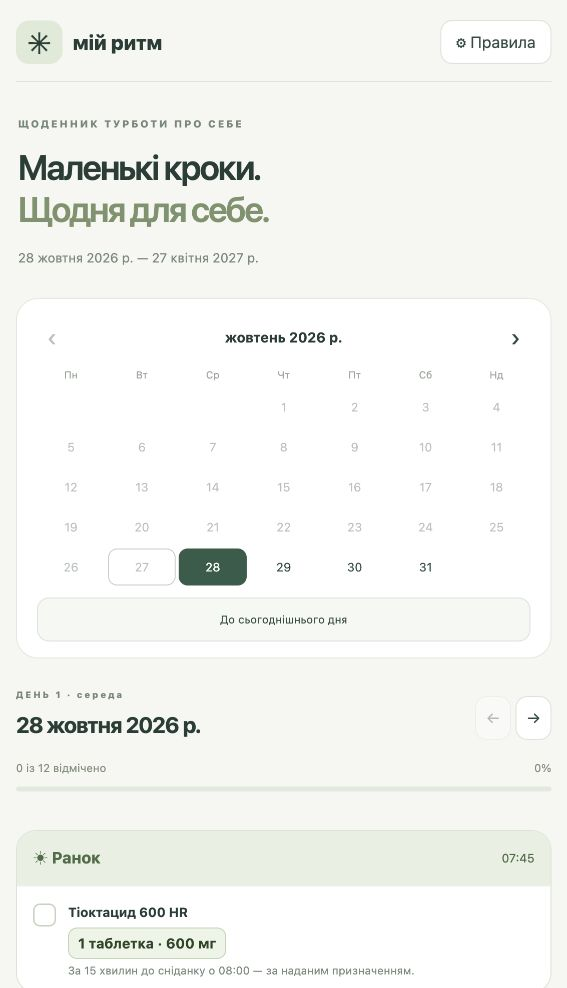
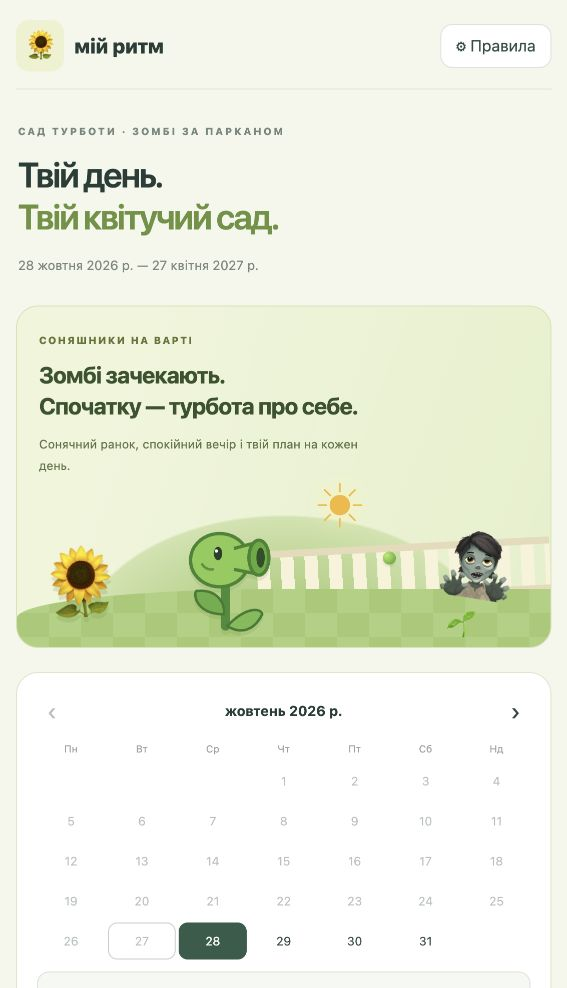
Add Ukrainian garden theme inspired by Plants vs Zombies

diff --git a/src/style.css b/src/style.css
@@ -471,3 +471,173 @@ textarea {
 .row.done .dosage {
   opacity: 0.65;
 }
+
+/* A playful garden theme inspired by Plants vs. Zombies; purely decorative. */
+:root {
+  background: #f5f7ec;
+}
+.logo {
+  background: #edf2cf;
+  padding: 6px 9px;
+}
+.intro {
+  padding-bottom: 20px;
+}
+.intro h1 em {
+  color: #6b923e;
+}
+.garden-banner {
+  position: relative;
+  display: grid;
+  grid-template-columns: 1.3fr 1fr;
+  min-height: 210px;
+  margin-bottom: 34px;
+  overflow: hidden;
+  border: 1px solid #d5e3b5;
+  border-radius: 22px;
+  background: linear-gradient(110deg, #eff5da 20%, #e4f0c9 100%);
+}
+.garden-copy {
+  position: relative;
+  z-index: 2;
+  padding: 28px;
+}
+.garden-tag {
+  display: inline-block;
+  color: #637332;
+  font-size: 10px;
+  font-weight: 800;
+  letter-spacing: 1.5px;
+}
+.garden-copy h2 {
+  margin: 12px 0;
+  color: #36542c;
+  font-size: 24px;
+  line-height: 1.35;
+}
+.garden-copy p {
+  max-width: 340px;
+  margin: 0;
+  color: #617448;
+  font-size: 12px;
+  line-height: 1.8;
+}
+.garden-scene {
+  position: relative;
+  min-height: 210px;
+  isolation: isolate;
+  background: radial-gradient(ellipse at bottom, #97c15e 0%, #cfe3ad 54%, transparent 55%);
+}
+.garden-scene::after {
+  content: '';
+  position: absolute;
+  z-index: -1;
+  inset: 66% 0 0;
+  border-radius: 50% 0 0 0;
+  background: repeating-conic-gradient(#a3c971 0% 25%, #acd17c 0% 50%) 0 0 / 64px 48px;
+}
+.garden-sun {
+  position: absolute;
+  top: 10px;
+  left: 35%;
+  color: #f4b930;
+  font-size: 62px;
+  text-shadow: 0 0 22px #fff3a3;
+}
+.garden-fence {
+  position: absolute;
+  z-index: -1;
+  bottom: 48px;
+  right: 0;
+  width: 55%;
+  height: 55px;
+  transform: rotate(-3deg);
+  background: repeating-linear-gradient(90deg, #f8f3d9 0 13px, transparent 13px 24px);
+  border-top: 7px solid #e5dbb7;
+  border-bottom: 7px solid #e5dbb7;
+}
+.garden-flower {
+  position: absolute;
+  left: 0;
+  bottom: 16px;
+  font-size: 83px;
+  filter: drop-shadow(0 5px 0 #6a903c33);
+  transform: rotate(-7deg);
+}
+.garden-peashooter {
+  position: absolute;
+  left: 28%;
+  bottom: 6px;
+  width: 115px;
+  height: 145px;
+  filter: drop-shadow(0 4px 0 #5c843326);
+}
+.garden-zombie {
+  position: absolute;
+  right: 8px;
+  bottom: 40px;
+  font-size: 79px;
+  transform: rotate(9deg);
+  filter: saturate(.8);
+}
+.garden-pea {
+  position: absolute;
+  top: 46%;
+  right: 26%;
+  width: 13px;
+  height: 13px;
+  border-radius: 50%;
+  background: radial-gradient(circle at 30% 30%, #b4ec6a, #519527);
+  box-shadow: 0 2px 2px #4d753c33;
+}
+.garden-grass {
+  position: absolute;
+  right: 14%;
+  bottom: 4px;
+  font-size: 29px;
+}
+aside {
+  border-color: #dde5cf;
+}
+.morning .grouphead {
+  background: #e6efd7;
+}
+@media (max-width: 760px) {
+  .garden-banner {
+    grid-template-columns: 1fr;
+    margin-bottom: 24px;
+  }
+  .garden-copy {
+    padding: 22px 22px 0;
+  }
+  .garden-copy h2 {
+    font-size: 23px;
+  }
+  .garden-scene {
+    min-height: 170px;
+    margin-top: 0;
+  }
+  .garden-flower {
+    left: 5%;
+    font-size: 72px;
+  }
+  .garden-sun {
+    top: -8px;
+    left: 56%;
+    font-size: 52px;
+  }
+  .garden-peashooter {
+    left: 30%;
+    width: 100px;
+    height: 125px;
+  }
+  .garden-zombie {
+    right: 7%;
+    font-size: 70px;
+    bottom: 35px;
+  }
+  .garden-pea {
+    top: 44%;
+    right: 29%;
+  }
+}

diff --git a/src/index.html b/src/index.html
@@ -10,13 +10,40 @@
   <body>
     <main>
       <header>
-        <a class="brand" href="./"><span class="logo">✳</span> мій ритм</a
+        <a class="brand" href="./"><span class="logo" aria-hidden="true">🌻</span> мій ритм</a
         ><button id="settings">⚙ Правила</button>
       </header>
       <section class="intro">
-        <span class="eyebrow">ЩОДЕННИК ТУРБОТИ ПРО СЕБЕ</span>
-        <h1>Маленькі кроки.<br /><em>Щодня для себе.</em></h1>
+        <span class="eyebrow">САД ТУРБОТИ · ЗОМБІ ЗА ПАРКАНОМ</span>
+        <h1>Твій день.<br /><em>Твій квітучий сад.</em></h1>
         <p id="range"></p>
+      </section>
+      <section class="garden-banner" aria-label="Сад у стилі Рослини проти зомбі">
+        <div class="garden-copy">
+          <span class="garden-tag">СОНЯШНИКИ НА ВАРТІ</span>
+          <h2>Зомбі зачекають.<br />Спочатку — турбота про себе.</h2>
+          <p>Сонячний ранок, спокійний вечір і твій план на кожен день.</p>
+        </div>
+        <div class="garden-scene" aria-hidden="true">
+          <span class="garden-sun">☀</span>
+          <div class="garden-fence"></div>
+          <span class="garden-zombie">🧟</span>
+          <span class="garden-flower">🌻</span>
+          <svg class="garden-peashooter" viewBox="0 0 120 150" fill="none">
+            <path d="M58 132V70" stroke="#438c35" stroke-width="11" stroke-linecap="round"/>
+            <path d="M56 118C23 118 19 94 23 90C47 87 58 104 56 118Z" fill="#64ae43" stroke="#397c2e" stroke-width="3"/>
+            <path d="M60 132C84 107 101 111 102 118C91 140 74 141 60 132Z" fill="#78bb4e" stroke="#397c2e" stroke-width="3"/>
+            <ellipse cx="51" cy="53" rx="35" ry="32" fill="#8acb52" stroke="#3d842e" stroke-width="4"/>
+            <path d="M68 39L98 31V70L68 64" fill="#8acb52" stroke="#3d842e" stroke-width="4"/>
+            <ellipse cx="98" cy="50" rx="12" ry="21" fill="#5eaa39" stroke="#3d842e" stroke-width="4"/>
+            <ellipse cx="100" cy="50" rx="5" ry="12" fill="#294f27"/>
+            <ellipse cx="49" cy="45" rx="5" ry="8" fill="#273f25"/>
+            <circle cx="47" cy="42" r="2" fill="white"/>
+            <path d="M30 58C33 63 39 65 43 64" stroke="#568e36" stroke-width="3" stroke-linecap="round"/>
+          </svg>
+          <span class="garden-pea"></span>
+          <span class="garden-grass">🌱</span>
+        </div>
       </section>
       <div class="workspace">
         <aside>
@@ -84,7 +111,7 @@
           >Хром: NIH</a
         >
       </details>
-      <footer>Мій ритм <span>Турбота починається з простих речей.</span></footer>
+      <footer>Мій ритм <span>Зомбі полюють на мізки. А ти — бережи свої 🧠🌻</span></footer>
     </main>
     <dialog id="editor">
       <div class="editorhead">

diff --git a/AGENTS.md b/AGENTS.md
@@ -100,3 +100,7 @@ The canonical build command is `npm run build`: strict typecheck → tests → V
 `src/` is the Vite application root. Static configuration stays in the project-level `public/`; Vite copies it into the project-level `dist/`. Keep package files, TypeScript/Vite configuration, and `test/` at the project root.
 
 Prefer readable array methods (`map`, `filter`, `flatMap`, `reduce`, `forEach`, and `Array.from`) for collection transformations and rendering. Preserve ordering and keep stateful logic explicit.
+
+## Visual theme
+
+The user requested a Ukrainian Plants vs. Zombies-inspired garden theme for a teenage fan. Keep the sunflower, peashooter, lawn, and zombie decoration static. Do not add a game, collectible rewards, or medication-based scoring. Preserve readable green morning sections and blue evening sections.
